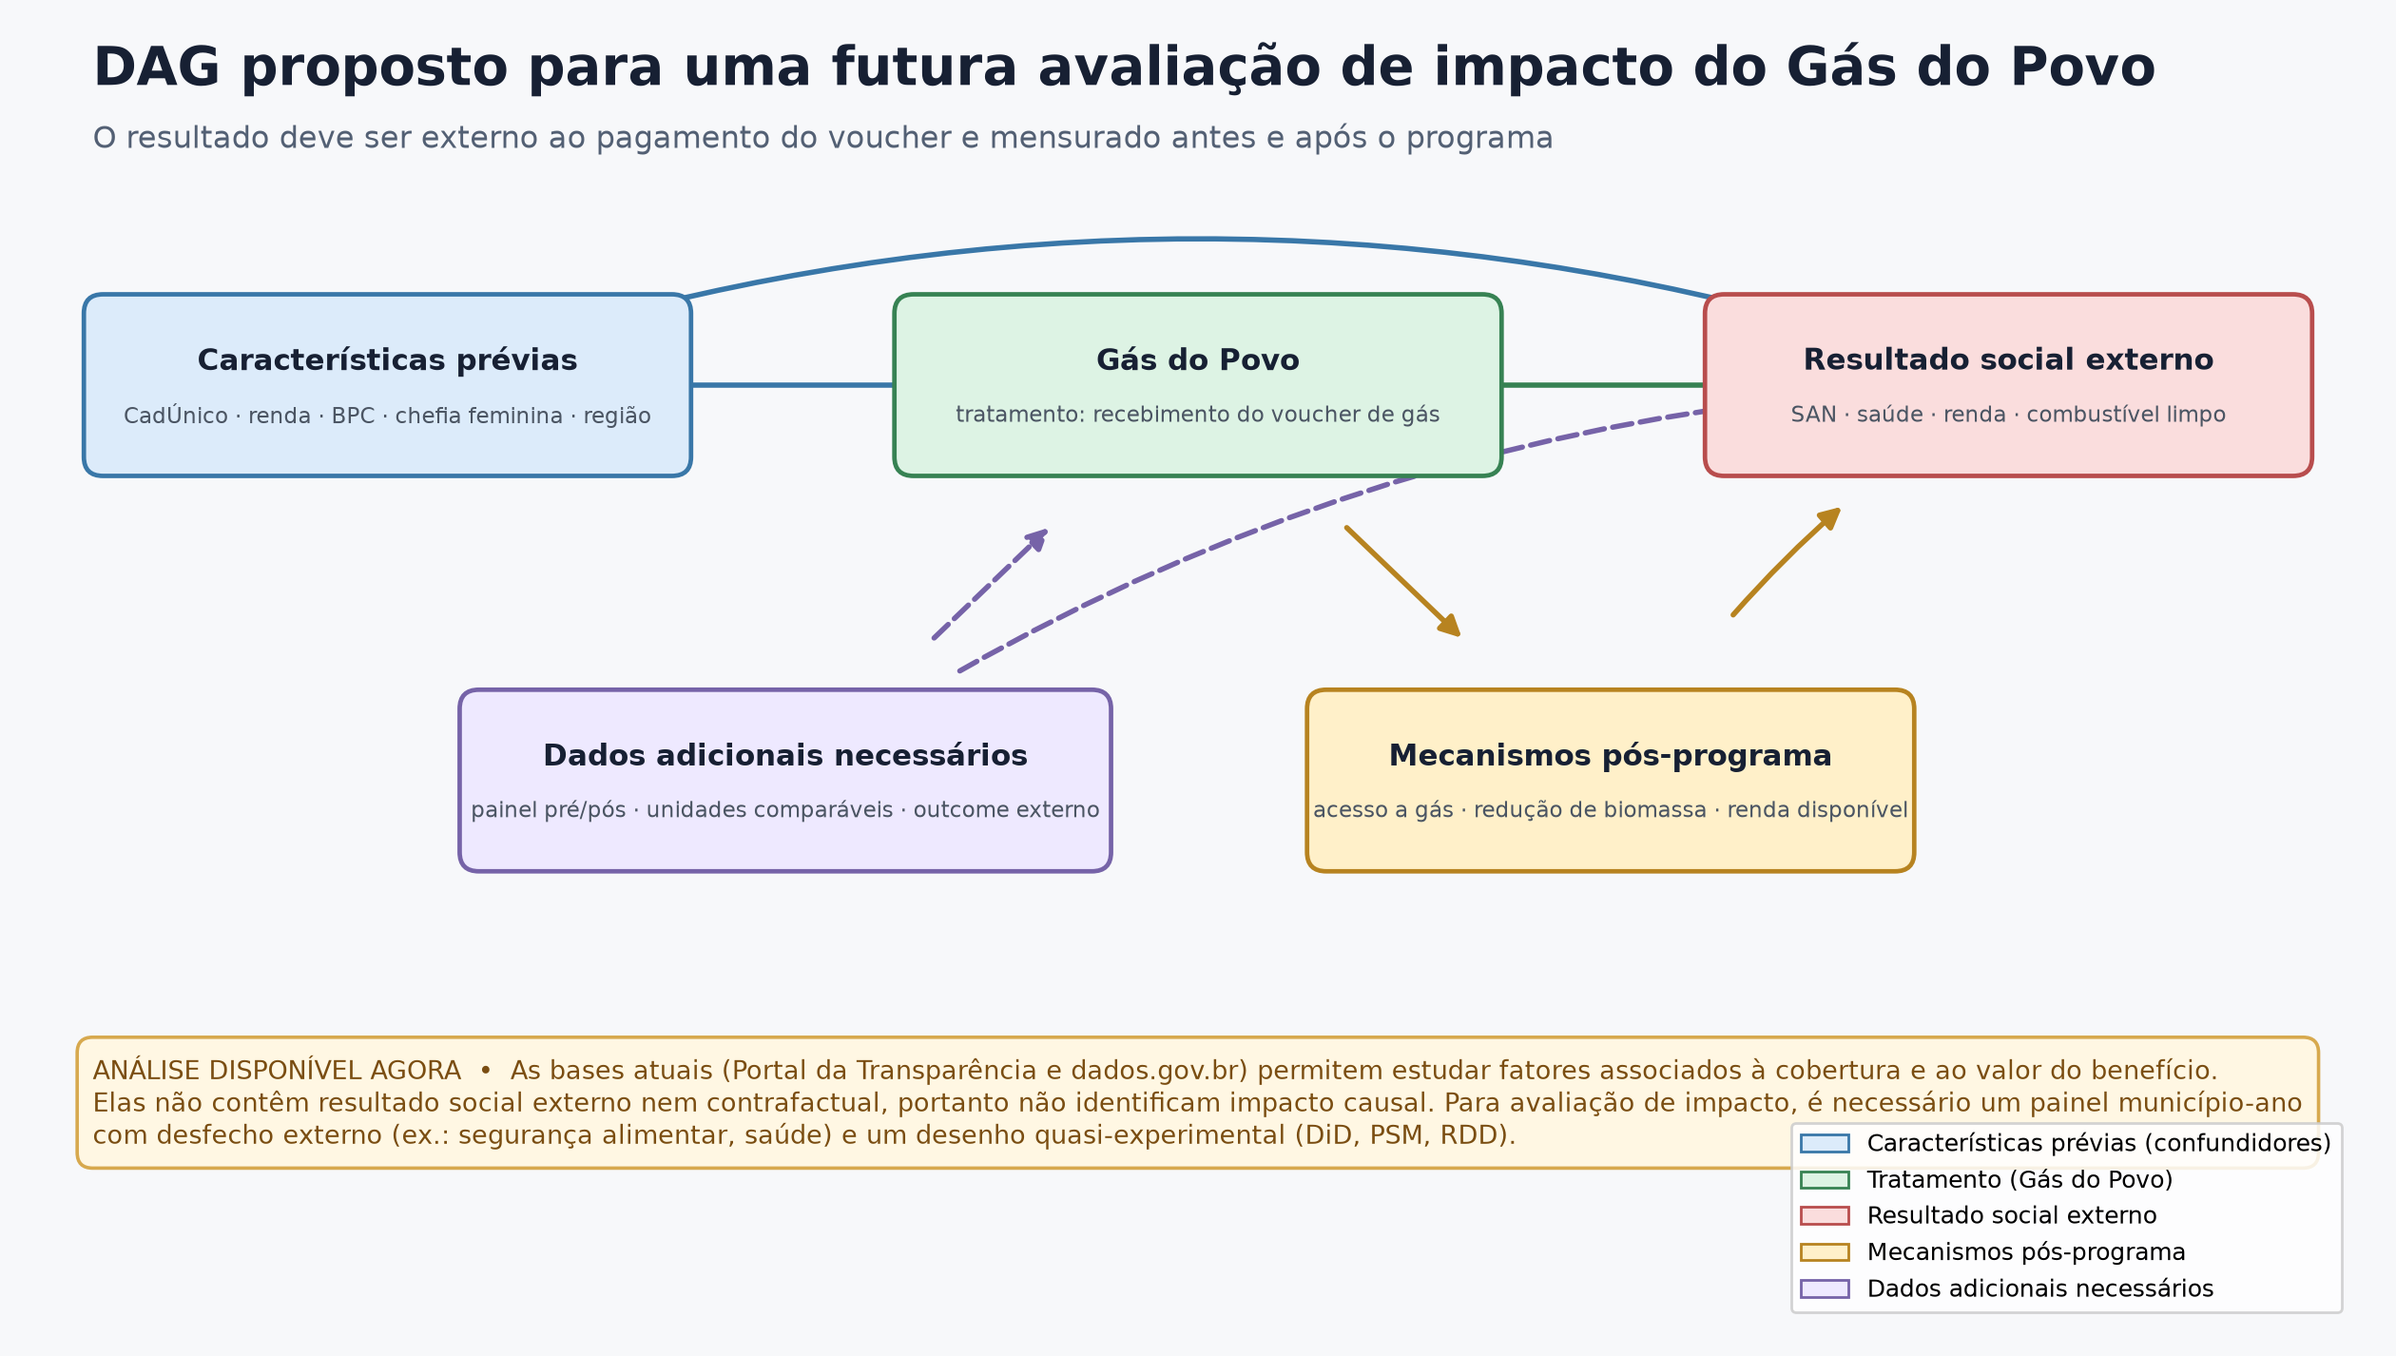
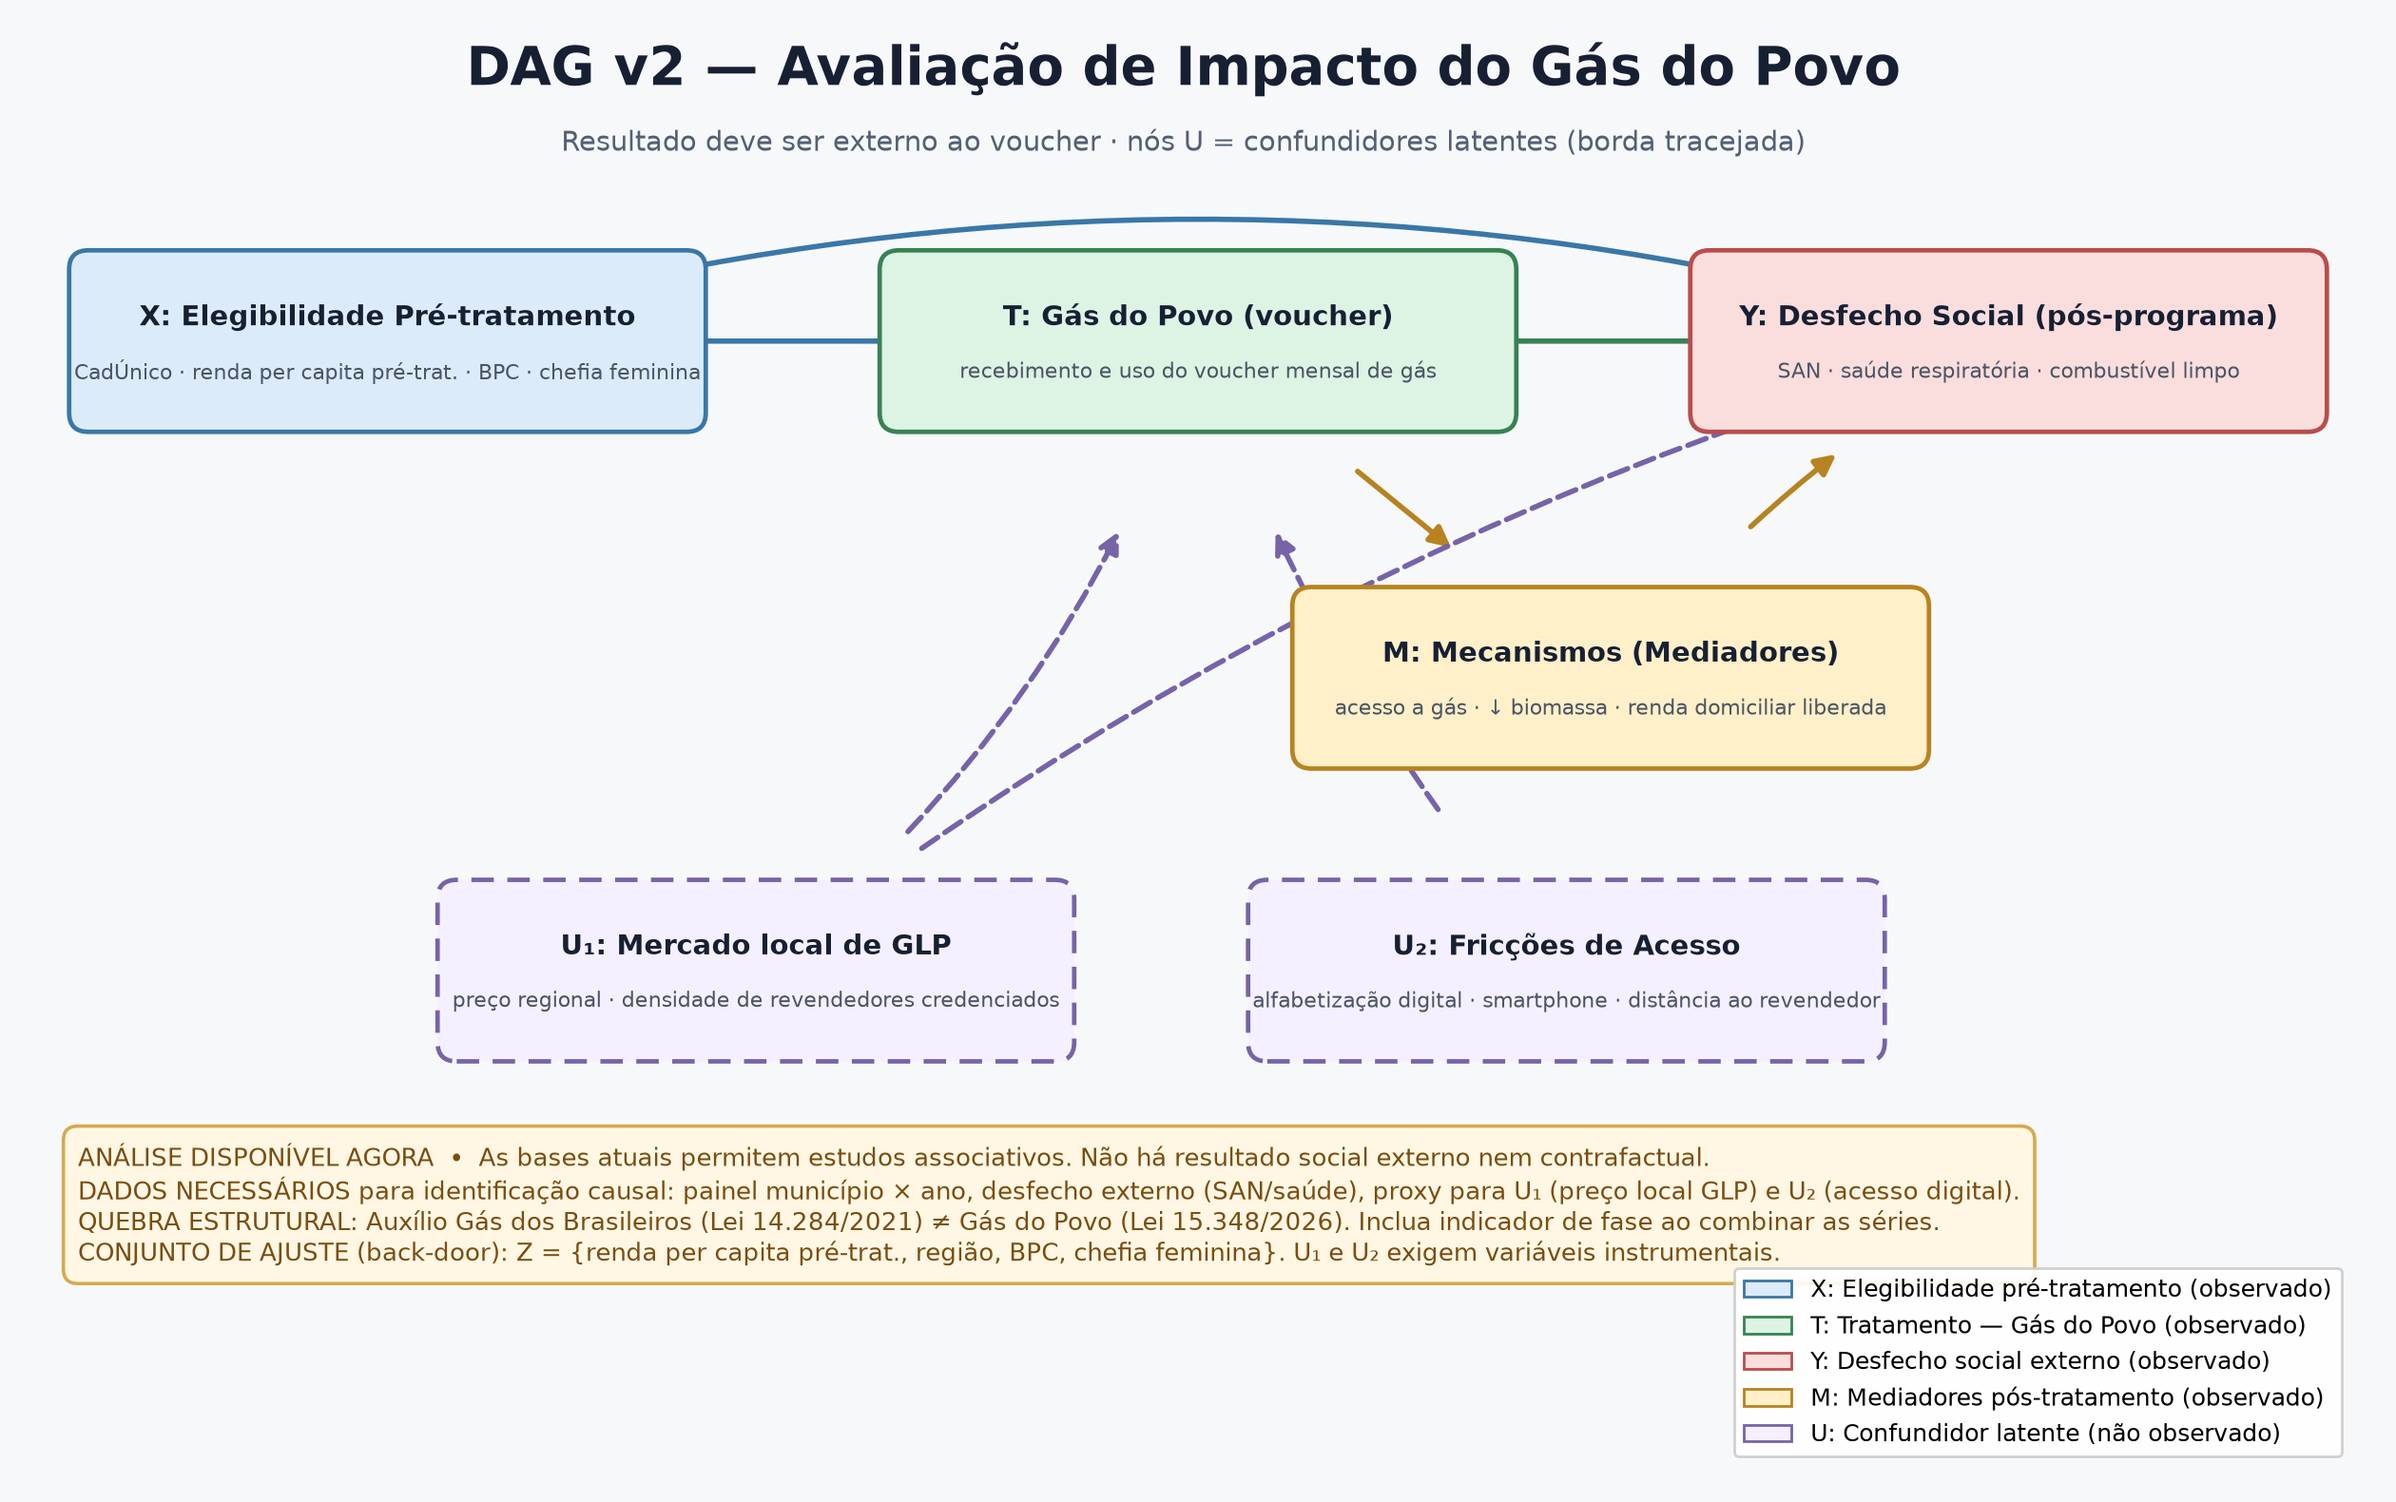
refactor(dag v2): remove no operacional, adiciona confundidores latentes U1/U2, corrige ambiguidade de renda, nota de quebra estrutural 2021-2026, version pinning

diff --git a/gerar_dag_gas_do_povo.py b/gerar_dag_gas_do_povo.py
@@ -1,5 +1,11 @@
 # -*- coding: utf-8 -*-
-"""Gera e salva o DAG metodológico do programa Gás do Povo."""
+"""Gera e salva o DAG metodológico v2 do programa Gás do Povo.
+
+Correções v2:
+- Removido nó operacional 'dados': não é variável do DGP (Pearl 2009).
+- Adicionados confundidores latentes U1 (mercado GLP) e U2 (fricções de acesso).
+- Corrigida ambiguidade de rótulo 'renda' em três nós com papéis causais distintos.
+"""
 
 import matplotlib.pyplot as plt
 import matplotlib.patches as mpatches
@@ -9,108 +15,116 @@ from pathlib import Path
 DAG_PATH = Path(__file__).resolve().parent / "dag_gas_do_povo.png"
 
 POS = {
-    "cad":   (2.5,  6.5),
-    "gdp":   (8.0,  6.5),
-    "out":   (13.5, 6.5),
-    "mech":  (10.8, 3.8),
-    "dados": (5.2,  3.8),
+    "cad":    (2.5,  7.8),
+    "gdp":    (8.0,  7.8),
+    "out":    (13.5, 7.8),
+    "mech":   (10.8, 5.5),
+    "u_mkt":  (5.0,  3.5),
+    "u_fric": (10.5, 3.5),
 }
 
 SPECS = {
-    "cad":   ("Características prévias",
-              "CadÚnico · renda · BPC · chefia feminina · região",
-              "#DCEBFA", "#3977A8"),
-    "gdp":   ("Gás do Povo",
-              "tratamento: recebimento do voucher de gás",
-              "#DDF3E4", "#378253"),
-    "out":   ("Resultado social externo",
-              "SAN · saúde · renda · combustível limpo",
-              "#FADDDD", "#B84D4D"),
-    "mech":  ("Mecanismos pós-programa",
-              "acesso a gás · redução de biomassa · renda disponível",
-              "#FFF0C9", "#B78320"),
-    "dados": ("Dados adicionais necessários",
-              "painel pré/pós · unidades comparáveis · outcome externo",
-              "#EEE9FF", "#7663A8"),
+    "cad":    ("X: Elegibilidade Pré-tratamento",
+               "CadÚnico · renda per capita pré-trat. · BPC · chefia feminina",
+               "#DCEBFA", "#3977A8", False),
+    "gdp":    ("T: Gás do Povo (voucher)",
+               "recebimento e uso do voucher mensal de gás",
+               "#DDF3E4", "#378253", False),
+    "out":    ("Y: Desfecho Social (pós-programa)",
+               "SAN · saúde respiratória · combustível limpo",
+               "#FADDDD", "#B84D4D", False),
+    "mech":   ("M: Mecanismos (Mediadores)",
+               "acesso a gás · ↓ biomassa · renda domiciliar liberada",
+               "#FFF0C9", "#B78320", False),
+    "u_mkt":  ("U₁: Mercado local de GLP",
+               "preço regional · densidade de revendedores credenciados",
+               "#F5F0FF", "#7663A8", True),
+    "u_fric": ("U₂: Fricções de Acesso",
+               "alfabetização digital · smartphone · distância ao revendedor",
+               "#F5F0FF", "#7663A8", True),
 }
 
 
 def desenhar_dag() -> None:
-    fig, ax = plt.subplots(figsize=(16, 9), dpi=200)
+    fig, ax = plt.subplots(figsize=(16, 10), dpi=200)
     fig.patch.set_facecolor("#F7F8FA")
     ax.set_facecolor("#F7F8FA")
     ax.set_xlim(0, 16)
-    ax.set_ylim(0, 9)
+    ax.set_ylim(0, 10)
     ax.axis("off")
 
-    def arrow(a, b, color="#586273", curve=0.0, dashed=False):
+    def arrow(a, b, color="#586273", curve=0.0, dashed=False, shrink=78):
         ax.add_patch(FancyArrowPatch(
             POS[a], POS[b],
             arrowstyle="-|>", mutation_scale=16, linewidth=2.0,
             color=color, linestyle="dashed" if dashed else "solid",
             connectionstyle=f"arc3,rad={curve}",
-            shrinkA=78, shrinkB=78, zorder=1,
+            shrinkA=shrink, shrinkB=shrink, zorder=1,
         ))
 
-    arrow("cad",   "gdp",   color="#3977A8")
-    arrow("cad",   "out",   color="#3977A8", curve=-0.18)
-    arrow("gdp",   "out",   color="#378253")
-    arrow("gdp",   "mech",  color="#B78320")
-    arrow("mech",  "out",   color="#B78320", curve=-0.12)
-    arrow("dados", "gdp",   color="#7663A8", dashed=True)
-    arrow("dados", "out",   color="#7663A8", curve=-0.15, dashed=True)
+    arrow("cad",    "gdp",   color="#3977A8")
+    arrow("cad",    "out",   color="#3977A8", curve=-0.15)
+    arrow("gdp",    "out",   color="#378253")
+    arrow("gdp",    "mech",  color="#B78320")
+    arrow("mech",   "out",   color="#B78320", curve=-0.10)
+    arrow("u_mkt",  "gdp",   color="#7663A8", dashed=True, curve= 0.15)
+    arrow("u_mkt",  "out",   color="#7663A8", dashed=True, curve=-0.10)
+    arrow("u_fric", "gdp",   color="#7663A8", dashed=True, curve=-0.10)
 
-    for key, (title, subtitle, fill, edge) in SPECS.items():
+    for key, (title, subtitle, fill, edge, latente) in SPECS.items():
         x, y = POS[key]
-        w = 4.0 if key != "dados" else 4.3
+        ls = (0, (5, 3)) if latente else "solid"
         ax.add_patch(FancyBboxPatch(
-            (x - w / 2, y - 0.56), w, 1.12,
+            (x - 2.1, y - 0.56), 4.2, 1.12,
             boxstyle="round,pad=0.06,rounding_size=0.13",
-            facecolor=fill, edgecolor=edge, linewidth=1.7, zorder=3,
+            facecolor=fill, edgecolor=edge, linewidth=1.7,
+            linestyle=ls, zorder=3,
         ))
         ax.text(x, y + 0.16, title, ha="center", va="center",
-                fontsize=11, fontweight="bold", color="#172033", zorder=4)
+                fontsize=10.5, fontweight="bold", color="#172033", zorder=4)
         ax.text(x, y - 0.21, subtitle, ha="center", va="center",
-                fontsize=8.4, color="#4B5563", zorder=4)
+                fontsize=8.0, color="#4B5563", zorder=4)
 
-    ax.text(0.5, 8.55,
-            "DAG proposto para uma futura avaliação de impacto do Gás do Povo",
-            fontsize=20, fontweight="bold", color="#172033")
-    ax.text(0.5, 8.12,
-            "O resultado deve ser externo ao pagamento do voucher e mensurado antes e após o programa",
-            fontsize=11.5, color="#536074")
+    ax.text(7.9, 9.55,
+            "DAG v2 — Avaliação de Impacto do Gás do Povo",
+            fontsize=20, fontweight="bold", color="#172033", ha="center")
+    ax.text(7.9, 9.10,
+            "Resultado deve ser externo ao voucher · nós U = confundidores latentes (borda tracejada)",
+            fontsize=10.5, color="#536074", ha="center")
 
     note = (
-        "ANÁLISE DISPONÍVEL AGORA  •  As bases atuais (Portal da Transparência e dados.gov.br) "
-        "permitem estudar fatores associados à cobertura e ao valor do benefício.\n"
-        "Elas não contêm resultado social externo nem contrafactual, portanto não identificam "
-        "impacto causal. Para avaliação de impacto, é necessário um painel município-ano\n"
-        "com desfecho externo (ex.: segurança alimentar, saúde) e um desenho "
-        "quasi-experimental (DiD, PSM, RDD)."
+        "ANÁLISE DISPONÍVEL AGORA  •  As bases atuais permitem estudos associativos. "
+        "Não há resultado social externo nem contrafactual.\n"
+        "DADOS NECESSÁRIOS para identificação causal: painel município × ano, desfecho externo (SAN/saúde), "
+        "proxy para U₁ (preço local GLP) e U₂ (acesso digital).\n"
+        "QUEBRA ESTRUTURAL: Auxílio Gás dos Brasileiros (Lei 14.284/2021) ≠ Gás do Povo (Lei 15.348/2026). "
+        "Inclua indicador de fase ao combinar as séries.\n"
+        "CONJUNTO DE AJUSTE (back-door): Z = {renda per capita pré-trat., região, BPC, chefia feminina}. "
+        "U₁ e U₂ exigem variáveis instrumentais."
     )
-    ax.text(0.5, 1.6, note, fontsize=9.8, color="#7A4D11", ha="left", va="center",
+    ax.text(0.4, 1.9, note, fontsize=9.2, color="#7A4D11", ha="left", va="center",
             bbox=dict(boxstyle="round,pad=0.6", facecolor="#FFF7E3",
                       edgecolor="#D7A94E", linewidth=1.3))
 
     legend_items = [
         mpatches.Patch(facecolor="#DCEBFA", edgecolor="#3977A8",
-                       label="Características prévias (confundidores)"),
+                       label="X: Elegibilidade pré-tratamento (observado)"),
         mpatches.Patch(facecolor="#DDF3E4", edgecolor="#378253",
-                       label="Tratamento (Gás do Povo)"),
+                       label="T: Tratamento — Gás do Povo (observado)"),
         mpatches.Patch(facecolor="#FADDDD", edgecolor="#B84D4D",
-                       label="Resultado social externo"),
+                       label="Y: Desfecho social externo (observado)"),
         mpatches.Patch(facecolor="#FFF0C9", edgecolor="#B78320",
-                       label="Mecanismos pós-programa"),
-        mpatches.Patch(facecolor="#EEE9FF", edgecolor="#7663A8",
-                       label="Dados adicionais necessários"),
+                       label="M: Mediadores pós-tratamento (observado)"),
+        mpatches.Patch(facecolor="#F5F0FF", edgecolor="#7663A8",
+                       label="U: Confundidor latente (não observado)"),
     ]
     ax.legend(handles=legend_items, loc="lower right", fontsize=9,
-              framealpha=0.85, edgecolor="#CCCCCC",
+              framealpha=0.90, edgecolor="#CCCCCC",
               bbox_to_anchor=(0.99, 0.01))
 
     plt.savefig(DAG_PATH, bbox_inches="tight", facecolor=fig.get_facecolor())
     plt.close(fig)
-    print(f"DAG salvo em: {DAG_PATH}")
+    print(f"DAG v2 salvo em: {DAG_PATH}")
 
 
 if __name__ == "__main__":
